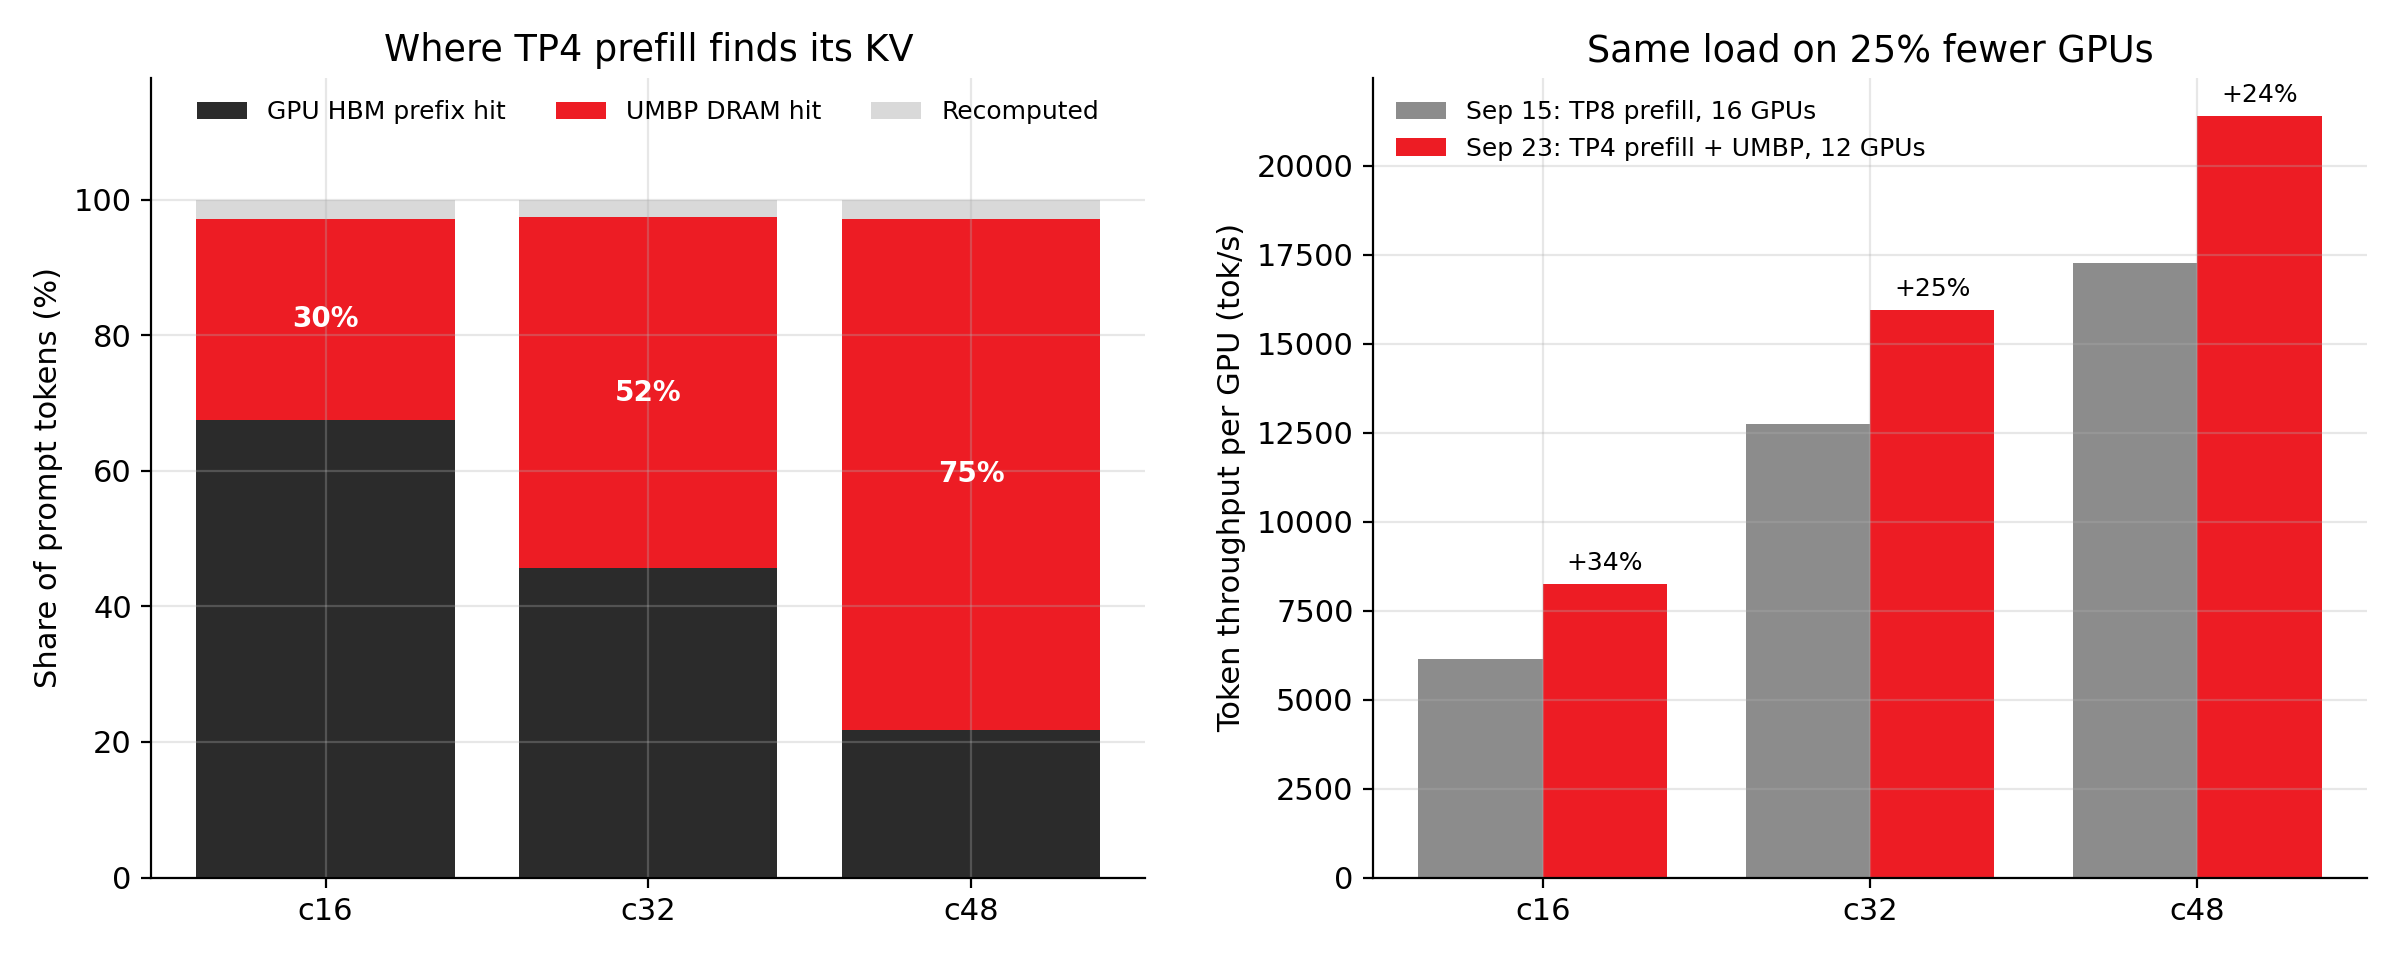
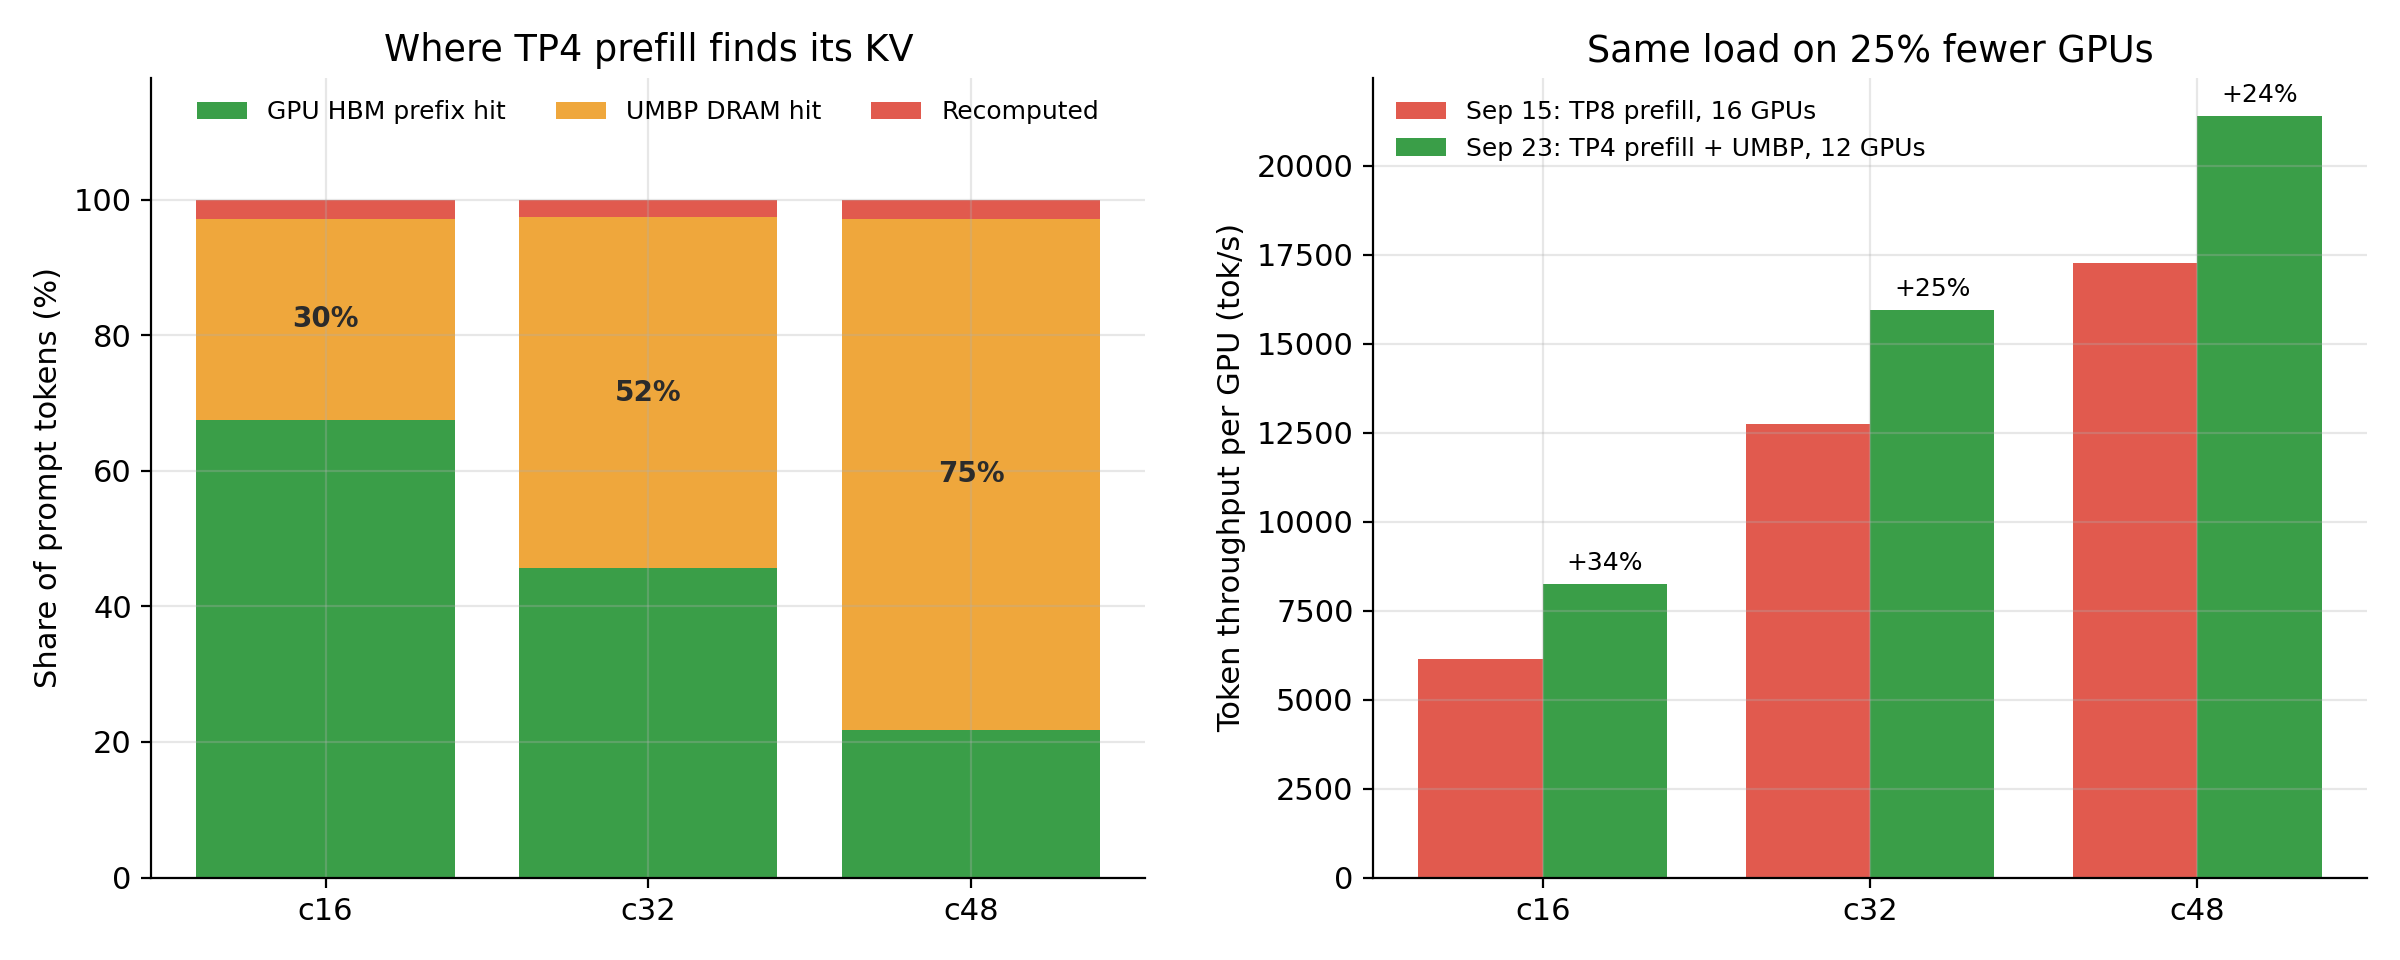
Sync English blog with Chinese version, soften Figure 3 palette
- blog.md: match the bold emphasis used in blog-zh.md
- Figure 3 (both languages): point at fig1_pareto_0821_vs_0925.png
- make_figures.py: soft red/amber/green palette for fig3; regenerate it

diff --git a/make_figures.py b/make_figures.py
@@ -19,6 +19,10 @@ AMD_RED = "#ED1C24"
 DARK = "#2B2B2B"
 GREY = "#8C8C8C"
 LIGHT = "#D9D9D9"
+# softer red / amber / green: baseline or worse -> better
+SOFT_RED = "#E15A4E"
+SOFT_AMBER = "#EFA73C"
+SOFT_GREEN = "#3A9E48"
 
 plt.rcParams.update({
     "font.size": 11,
@@ -121,13 +125,13 @@ def fig3_umbp():
 
     fig, (ax, ax2) = plt.subplots(1, 2, figsize=(12, 4.8))
     x = range(len(concs))
-    ax.bar(x, gpu_hit, color=DARK, label="GPU HBM prefix hit")
-    ax.bar(x, dram_hit, bottom=gpu_hit, color=AMD_RED, label="UMBP DRAM hit")
-    ax.bar(x, miss, bottom=[a + b for a, b in zip(gpu_hit, dram_hit)], color=LIGHT,
+    ax.bar(x, gpu_hit, color=SOFT_GREEN, label="GPU HBM prefix hit")
+    ax.bar(x, dram_hit, bottom=gpu_hit, color=SOFT_AMBER, label="UMBP DRAM hit")
+    ax.bar(x, miss, bottom=[a + b for a, b in zip(gpu_hit, dram_hit)], color=SOFT_RED,
            label="Recomputed")
     for i, d in enumerate(dram_hit):
         ax.text(i, gpu_hit[i] + d / 2, f"{d:.0f}%", ha="center", va="center",
-                color="white", fontsize=10, fontweight="bold")
+                color=DARK, fontsize=10, fontweight="bold")
     ax.set_xticks(list(x))
     ax.set_xticklabels(concs)
     ax.set_ylabel("Share of prompt tokens (%)")
@@ -136,8 +140,8 @@ def fig3_umbp():
     ax.legend(loc="upper center", ncol=3, frameon=False, fontsize=9)
 
     w = 0.38
-    ax2.bar([i - w / 2 for i in x], tp8, w, color=GREY, label="Sep 15: TP8 prefill, 16 GPUs")
-    ax2.bar([i + w / 2 for i in x], tp4, w, color=AMD_RED, label="Sep 23: TP4 prefill + UMBP, 12 GPUs")
+    ax2.bar([i - w / 2 for i in x], tp8, w, color=SOFT_RED, label="Sep 15: TP8 prefill, 16 GPUs")
+    ax2.bar([i + w / 2 for i in x], tp4, w, color=SOFT_GREEN, label="Sep 23: TP4 prefill + UMBP, 12 GPUs")
     for i in x:
         ax2.text(i + w / 2, tp4[i] + 400, f"+{(tp4[i] / tp8[i] - 1) * 100:.0f}%",
                  ha="center", fontsize=9)

diff --git a/blog.md b/blog.md
@@ -10,7 +10,7 @@ MoRI **UMBP** (Unified Memory & Bandwidth Pool) is built to keep that cache find
 
 *Figure 1: DeepSeek-V4-Pro-0813 1.6T agentic total tokens per $1 TCO vs. P90 interactivity, from the public SemiAnalysis InferenceX dashboard (Rent / 3-Year-Commit tier, updated 2026-09-25). Red is MI355X FP4 with UMBP + MoRI + SGLang; the green curves are the NVIDIA field — B200, B300, H200, GB200 and GB300 NVL72, plus a Vera Rubin NVL72 preview. Up and to the right is better; labels show the parallelism layout of each point. Against B200 FP4 (Dynamo SGLang), MI355X peaks at 69M tokens per $1 TCO vs. 46M.*
 
-Readers of [*Rebuilding Agentic AI from First Principles for AMD GPU*](https://www.amd.com/en/developer/resources/technical-articles/2026/rebuilding-agentic-ai-for-amd-gpu.html), which we published with Moonshot AI in July, will recognize the argument: *the decisive resource in agentic serving is the KV cache* — how much of the reuse roofline you capture, where the cache lives once it spills out of HBM, and whether the scheduler can route to it faster than recomputing it. That post introduced UMBP as the answer and measured a 3.2× smaller P99 TTFT at essentially unchanged cumulative hit rate.
+Readers of [*Rebuilding Agentic AI from First Principles for AMD GPU*](https://www.amd.com/en/developer/resources/technical-articles/2026/rebuilding-agentic-ai-for-amd-gpu.html), which we published with Moonshot AI in July, will recognize the argument: **the decisive resource in agentic serving is the KV cache** — how much of the reuse roofline you capture, where the cache lives once it spills out of HBM, and whether the scheduler can route to it faster than recomputing it. That post introduced UMBP as the answer and measured a **3.2×** smaller P99 TTFT at essentially unchanged cumulative hit rate.
 
 **This post measures that same stack against NVIDIA B200**, on a public third-party leaderboard.
 
@@ -29,7 +29,7 @@ AgentX replays whole agent sessions: each turn appends tool results to the accum
 
 It reports TTFT, P90 interactivity (per-user tok/s), TPGS (total tokens per GPU-second, counting cached tokens), and TCO (infrastructure cost per token) — the last of which is what Figure 1 plots.
 
-Two consequences. At 96% prefix reuse, *cache management determines prefill cost*. And because the agent blocks on the full response, the latency that matters is end-to-end, dominated by decode — so spending more of the machine on prefill does not buy headroom. The prefill work has to be eliminated instead.
+Two consequences. At 96% prefix reuse, *cache management determines prefill cost*. And because the agent blocks on the full response, the latency that matters is end-to-end, dominated by decode — so spending more of the machine on prefill does not buy headroom. **The prefill work has to be eliminated instead.**
 
 ## What the Workload Breaks, and What We Built to Match It
 
@@ -55,9 +55,9 @@ The benchmark is the InferenceX `agentic-coding` scenario with DRAM KV offload e
 
 ## MoRI UMBP + the SGLang KVCache Store Linker
 
-UMBP's design is laid out in the "What is UMBP" section of the July post: a single logical cache spanning engine HBM → host DRAM → the UMBP DRAM pool → SSD, built on three principles — **agentic-inference-native design, scheduler/framework/orchestrator co-design, and AMD hardware affinity**. All three serve one goal: an offloaded prefix stays *routable*, so the router can use placement and fetch-cost information to select the replica that will return it fastest.
+UMBP's design is laid out in the "What is UMBP" section of the July post: a single logical cache spanning engine HBM → host DRAM → the UMBP DRAM pool → SSD, built on three principles — **agentic-inference-native design, scheduler/framework/orchestrator co-design, and AMD hardware affinity**. All three serve one goal: **an offloaded prefix stays *routable***, so the router can use placement and fetch-cost information to select the replica that will return it fastest.
 
-This section covers what we found when we ran that design behind a production inference engine at high concurrency: the integration path itself had become the bottleneck.
+This section covers what we found when we ran that design behind a production inference engine at high concurrency: **the integration path itself** had become the bottleneck.
 
 ### What we found wrong with the HiCache path
 
@@ -94,7 +94,7 @@ Replacing HiCache with the UMBP linker, measured end-to-end on the AgentX agenti
 | 192 | **+14%** | **–66%** (35.3 s → 11.9 s) |
 | 256 | +9.7% | –51% |
 
-The TTFT reduction comes from eliminating prefix recomputation on a workload with 96% prefix reuse. No kernel changed.
+The TTFT reduction comes from **eliminating prefix recomputation** on a workload with 96% prefix reuse. No kernel changed.
 
 **A large enough cache changes the topology.** Once the deduplicated DRAM tier is in place, prefill no longer needs TP8 simply to hold KV. At concurrency 16–48 the September 23 recipe runs a **TP4 prefill with a TP8 decode (12 GPUs)** instead of TP8 + TP8 (16 GPUs). UMBP serves 30%, 52% and 75% of prompt tokens at concurrency 16, 32 and 48, while less than 3% are recomputed. Throughput per GPU rises 24–34% on 25% fewer GPUs — which is the mechanism behind a good part of the TCO gap in Figure 1.
 
@@ -123,7 +123,7 @@ Three other AMD-developed changes shipped into the same MI355X recipe between Au
 - **Optimistic prefill with request-owned speculative KV** ([sglang#38978](https://github.com/sgl-project/sglang/pull/38978), [sglang#40111](https://github.com/sgl-project/sglang/pull/40111)). In PD disaggregation a request normally waits for decode to bootstrap it before prefill can start; at high concurrency that handshake is pure queueing time. Letting prefill start optimistically, with the speculative KV owned by the request rather than a pre-reserved decode slot, cut **P90 TTFT by 27.7% at concurrency 256**. Removing a host sync from DSpark prefill slot expansion cut P90 TTFT a further **13–16%** at concurrency 128–256.
 - **Per-stream split-K for MLA decode** ([sglang#39968](https://github.com/sgl-project/sglang/pull/39968)) picks `kv_splits` per index stream instead of applying one setting to layers whose KV lengths differ by orders of magnitude.
 
-![Figure 3](figures/fig1_pareto.png)
+![Figure 3](figures/fig1_pareto_0821_vs_0925.png)
 
 *Figure 3: Throughput per GPU vs. P90 interactivity across the optimization campaign. The Aug 21 baseline uses 16 GPUs (1P1D, TP8 + TP8) at every point; the optimized recipes pick 8, 12 or 16 GPUs per concurrency and report throughput normalized per GPU.*
 
@@ -131,7 +131,7 @@ Three other AMD-developed changes shipped into the same MI355X recipe between Au
 
 We aim for these results to be reproducible and fairly attributed:
 
-- **TCO comparison basis.** Figure 1 is the public InferenceX dashboard, Rent / 3-Year-Commit cost tier, at $3.7/chip/hr for B200 and $2.9/chip/hr for MI355X, updated 2026-09-25. The 1.5× figure compares peak tokens per $1 TCO: 69M for MI355X against 46M for B200. At matched interactivity in the mid-range the advantage is smaller, and at the high-interactivity end the B200 curve is ahead. Pick the comparison point that matches your own serving target.
+- **TCO comparison basis.** Figure 1 is the public InferenceX dashboard, Rent / 3-Year-Commit cost tier, at $3.7/chip/hr for B200 and $2.9/chip/hr for MI355X, updated 2026-09-25. The 1.5× figure compares **peak** tokens per $1 TCO: 69M for MI355X against 46M for B200. At matched interactivity in the mid-range the advantage is smaller, and at the high-interactivity end the B200 curve is ahead. Pick the comparison point that matches your own serving target.
 - **The comparison is against B200.** Figure 1 also plots B300, GB200, GB300 NVL72 and a Vera Rubin NVL72 preview, some of which sit above the MI355X curve. Those are newer or larger-system parts at higher TCO per chip ($4.25–$8.5/chip/hr vs. $2.9 for MI355X); this post claims a result against B200 (Dynamo SGLang) specifically and makes no claim against the rest of the field.
 - **Speculative decoding acceptance is simulated.** InferenceX fixes the acceptance length (AL) per checkpoint (`SGLANG_SIMULATE_ACC_LEN`) so every run is compared at the same acceptance. The move to the DeepSeek-V4-Pro-0813 checkpoint raised the reference AL from 2.49 to 3.01 (MTP-3 / DSpark γ=3), which accounts for about **9% of the throughput gain at concurrency 192** and is not a software optimization. The Sep 23 recipe runs DSpark γ=6 (AL 3.77) at concurrency 4 and 16.
 - **GPU counts differ between recipes.** The Aug 21 baseline uses 16 GPUs at every concurrency; the optimized recipes use 8 GPUs at concurrency 4, 12 at concurrency 16–48, and 16 at concurrency 128 and above. All throughput is reported per GPU.
@@ -148,7 +148,7 @@ We aim for these results to be reproducible and fairly attributed:
 | Peak throughput/GPU | 22.9k (c192) | 55.8k (c256) | **2.4×** |
 | Peak tokens per $1 TCO | — | 69M (MI355X) vs. 46M (B200) | **1.5×** |
 
-Kernels and parallelism layout still matter. But when 96% of prompt tokens have already been computed, the system that decides where those tokens live sets the cost per token. In July we argued that from first principles and closed with a roadmap: complete the UMBP integration, and carry these primitives to more engines. The KVCache Store Linker delivers the first item: UMBP is now wired directly into the engine's radix tree as a first-class KV substrate. The AgentX results above are that design measured against a competitor on public infrastructure.
+Kernels and parallelism layout still matter. But when 96% of prompt tokens have already been computed, **the system that decides where those tokens live sets the cost per token.** In July we argued that from first principles and closed with a roadmap: complete the UMBP integration, and carry these primitives to more engines. The KVCache Store Linker delivers the first item: UMBP is now wired directly into the engine's radix tree as a first-class KV substrate. The AgentX results above are that design measured against a competitor on public infrastructure.
 
 Next on that roadmap: bringing UMBP to the vLLM ecosystem.
 
